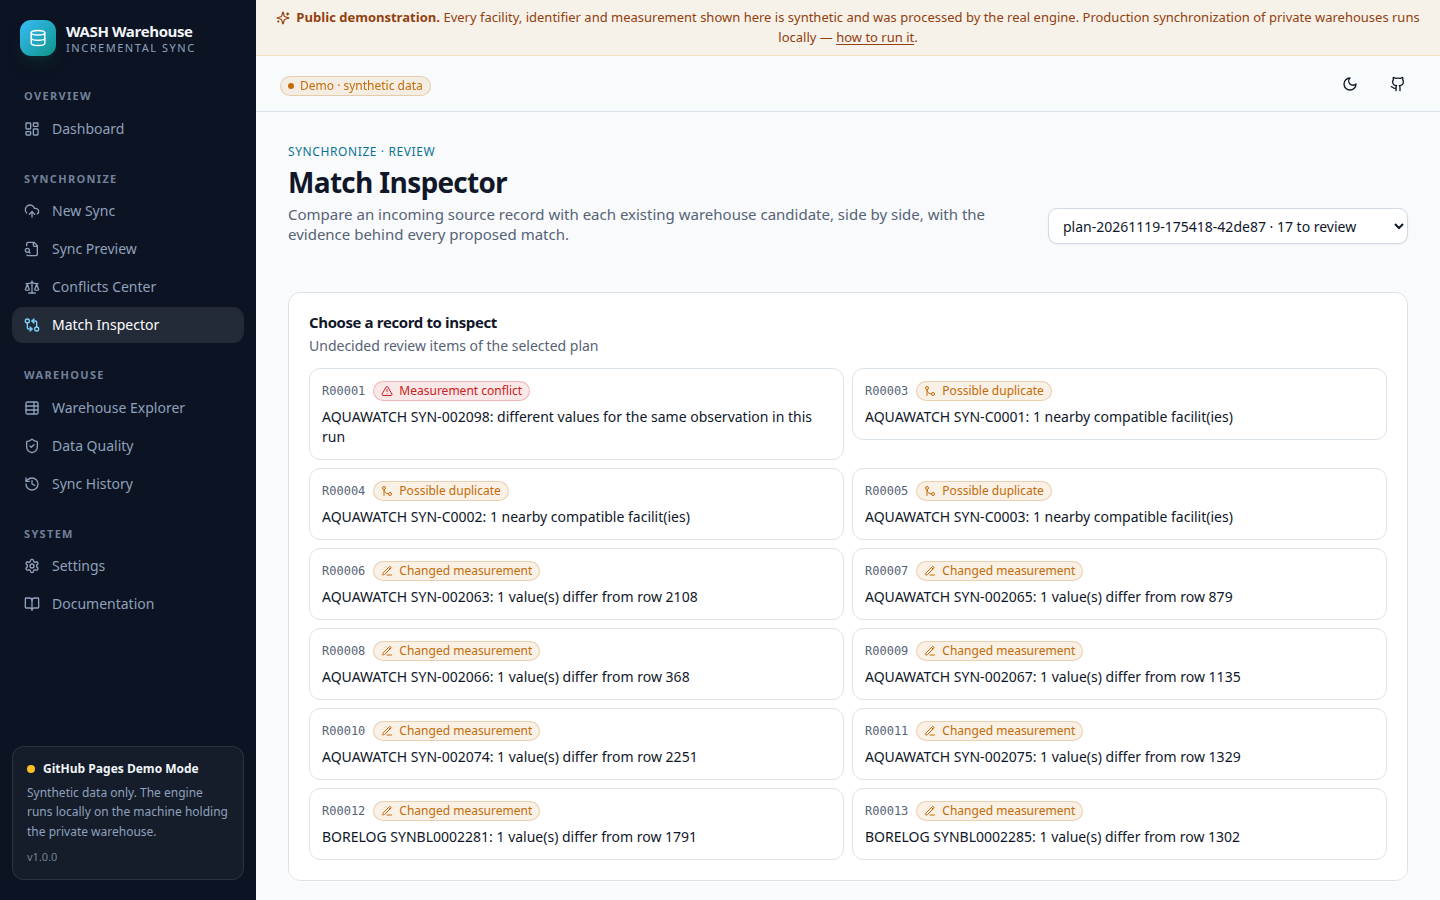
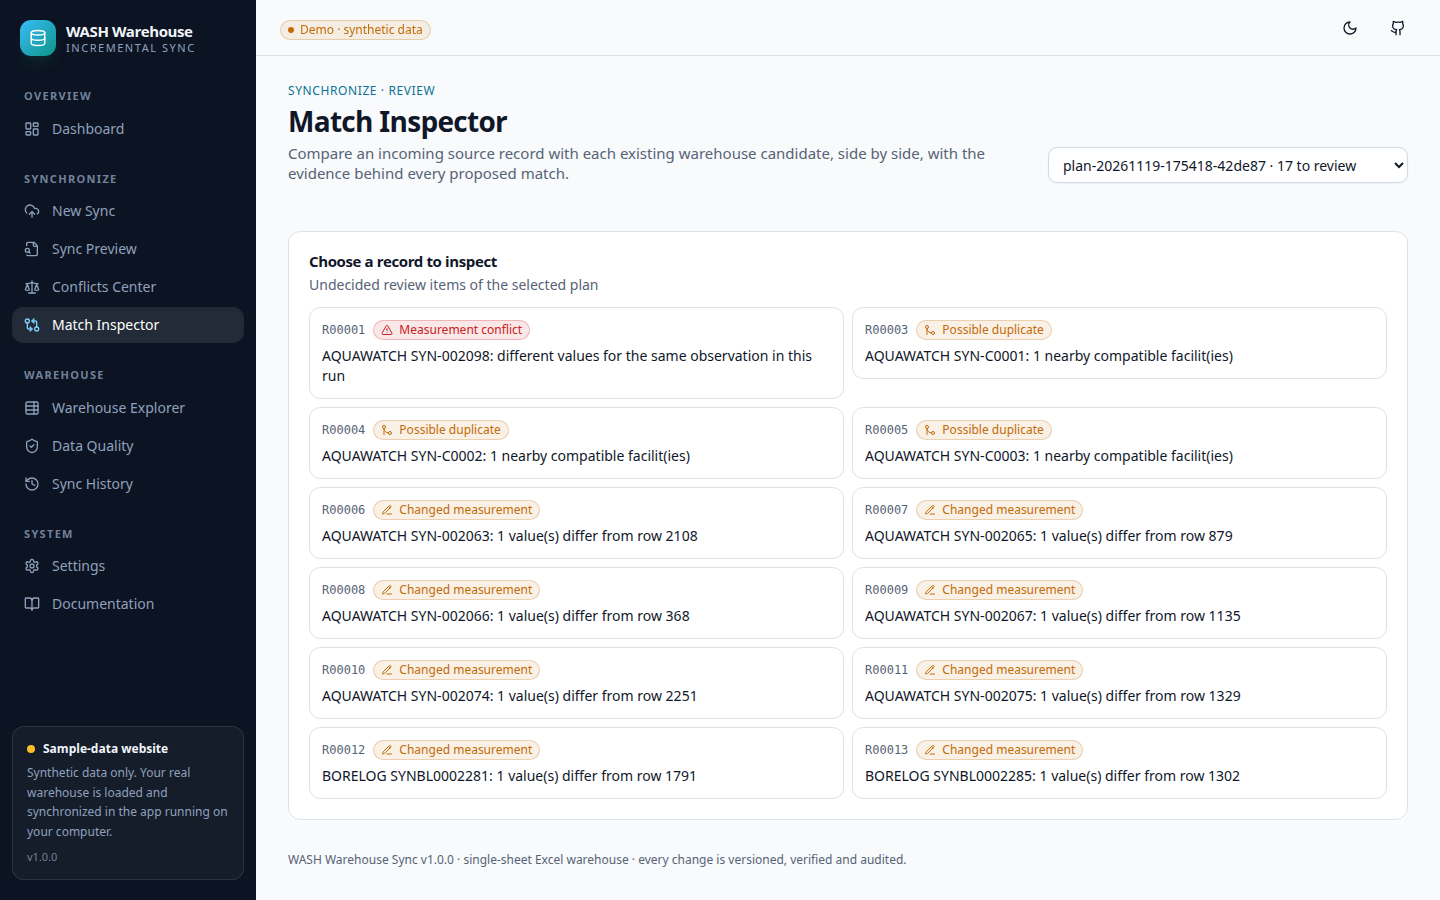
docs: loading the current warehouse, new messages and refreshed screenshots
Installation, state/audit and troubleshooting guides describe the two-step
flow (current warehouse, then files to sync), the LOADED version kind and
LOAD_WAREHOUSE event, and what each new message means. Screenshots are
regenerated from the demo build, plus one of New Sync in the local app with
a synthetic warehouse loaded.

diff --git a/docs/troubleshooting.md b/docs/troubleshooting.md
@@ -4,14 +4,18 @@
 |---|---|
 | `Plan was prepared for version N but the current version is M` | Another plan was applied or a rollback happened after this preview. Run the preview again. |
 | `Plan changed after approval; approve it again` | A decision was recorded after approval. Re-approve to lock the decisions. |
-| `Another operation is running` | Only one init/apply runs at a time. If a process crashed, `wash-sync recover` clears a stale lock. |
+| `Another operation is running` | Only one load/apply/rollback runs at a time. If a process crashed, `wash-sync recover` clears a stale lock. |
 | `Verification failed; nothing was published` | The new workbook failed an integrity or preservation check. The current version is unchanged; keep the audit and report the failed checks. |
 | `Result would need N rows; one worksheet holds at most 1,048,576` | The warehouse would exceed Excel's single-sheet limit. Nothing is written; the design requires one sheet. |
 | `Value … has N characters; Excel's limit is 32,767` | Typically an overlong lithology profile. It is never truncated; decide it in review. |
 | A file is not recognized | Check that the header row is present. Columns match by name — see `source_profiles.json`. |
 | Bangla admin names flagged as unmapped | Mappings are learned only from verified warehouse rows. Add a validated alias in Settings. |
 | `structural edits are refused` | The workbook contains formulas, merged cells, tables or conditional formats near the edit. The writer will not risk corrupting references; remove them from the data sheet. |
-| Explorer shows "No warehouse registered" | Run `wash-sync init --warehouse <file>` (or use the same `--state-dir` as the server). |
+| Explorer shows "No warehouse registered" | Load it in New Sync → step 1 (or `wash-sync load-warehouse <file>`), and use the same `--state-dir` for the CLI and the server. |
+| `… is not the WASH warehouse: it has no candidate_id … column` | The file chosen as the warehouse is something else — often a source export. Add exports in step 2 ("Files to sync"); step 1 takes the single-sheet warehouse workbook. |
+| `… is identical to v001, an earlier version` | Loading an old copy would silently undo later syncs. To go back on purpose, use Sync History → *Make current*. |
+| `Preparing warehouse v… for search (N%)` | The lookup index of the current version is being built (first start after an upgrade, or after the `index/` cache was deleted). The pages refresh by themselves; a 600,000-row warehouse takes a few minutes. |
+| `sync_compatibility` warning after loading a file | The workbook contains formulas, merged cells, tables or conditional formats, which block adding rows and columns. Paste values over formulas / remove them in Excel and load the file again. |
 | The web page says the interface is not built | `npm --prefix apps/web ci && npm --prefix apps/web run build:local`. |
 | The browser preview differs from the engine | The preview uses simplified rules on synthetic data; the engine dry run is authoritative. |
 | Index build after every new version | Expected: each version is indexed once (cached by SHA-256). Deleting `index/` is always safe. |

diff --git a/docs/installation.md b/docs/installation.md
@@ -22,16 +22,29 @@ npm --prefix apps/web run build:local
 Or run `./scripts/start-local.sh` (Windows: `scripts\start-local.ps1`), which does
 all of the above on first use and then starts the app.
 
-## Register the verified warehouse (once)
+## Load the current warehouse
+
+Start the app (`./scripts/start-local.sh` or `python -m wash_sync serve`), open **New Sync**
+and, in **step 1 · Current warehouse**, choose your latest warehouse workbook. It is checked
+(ZIP, XML, single worksheet, ordering, ranges), copied into the private state directory as the
+read-only `WASH_Warehouse_v000.xlsx` and prepared for search — about 5 minutes for 600,000
+rows. The original file is never modified. Every page then shows this warehouse.
+
+From the command line:
 
 ```bash
-wash-sync init --warehouse /path/to/WASH_GPANI_WPMS_AQUA_BORELOG_1986_2026_QA_CORRECTED.xlsx
+wash-sync load-warehouse /path/to/WASH_GPANI_WPMS_AQUA_BORELOG_1986_2026_QA_CORRECTED.xlsx
 ```
 
-The workbook is verified (ZIP, XML, single worksheet, ordering, ranges), copied into
-the private state directory as the read-only baseline `WASH_Warehouse_v000.xlsx`, and
-indexed. The original file is never modified. Choose the location with
-`--state-dir` or `WASH_SYNC_HOME` (default `~/.wash_sync`).
+Choose the location of the private state with `--state-dir` or `WASH_SYNC_HOME`
+(default `~/.wash_sync`).
+
+The latest version is remembered, so you load the warehouse only once. If it is later
+edited outside the app (for example QA corrections in Excel), load that file again with
+**Load a newer warehouse file** (or `wash-sync load-warehouse FILE -r "what changed"`): it
+becomes the next version and earlier versions stay available for rollback. Files that are not
+the warehouse (such as a source export), copies of an earlier version and the file that is
+already current are recognized and refused with an explanation.
 
 ## Daily use
 
@@ -39,8 +52,9 @@ indexed. The original file is never modified. Choose the location with
 python -m wash_sync serve       # http://127.0.0.1:8765
 ```
 
-1. **New Sync** — drop the latest export(s); check the detected source, column
-   mapping, personal-data notice and survey period; run the dry run.
+1. **New Sync** — step 1 shows the current warehouse; in step 2 drop the latest export(s),
+   check the detected source, column mapping, personal-data notice and survey period, and
+   run the dry run.
 2. **Sync Preview** — counts per classification and source, new columns, every record
    with its evidence and exact cell changes; download the audit.
 3. **Conflicts Center / Match Inspector** — decide each review item with a reason.
@@ -51,6 +65,7 @@ python -m wash_sync serve       # http://127.0.0.1:8765
 ## Command line equivalents
 
 ```bash
+wash-sync load-warehouse WASH_warehouse.xlsx -r "QA corrections"   # step 1 (first time: v000)
 wash-sync inspect exports/survey_2027_dry.xlsx
 wash-sync preview exports/survey_2027_dry.xlsx --period "2027 dry"
 wash-sync review list <plan-id>

diff --git a/docs/state-and-audit.md b/docs/state-and-audit.md
@@ -8,7 +8,7 @@ manifest.json               current version pointer, schema/engine versions
 warehouse_versions.json     immutable version records (see below)
 source_fingerprints.jsonl   latest status per observation key (hash, status, version, plan)
 facility_crosswalk.csv      VERIFIED_AUTO / APPROVED_MATCH / KEEP_SEPARATE links
-change_history.jsonl        append-only events: INIT, PREVIEW, DECISION, APPROVE, APPLY, ROLLBACK, …
+change_history.jsonl        append-only events: INIT, LOAD_WAREHOUSE, PREVIEW, DECISION, APPROVE, APPLY, ROLLBACK, …
 pending_conflicts.json      deferred / undecided review items carried between runs
 settings.json               validated configuration
 versions/                   WASH_Warehouse_v000.xlsx (baseline), v001, … (read-only)
@@ -20,6 +20,13 @@ jobs/  tmp/  uploads/       job journals, temporary output, uploaded exports
 ```
 
 ## Version record
+
+Every version has a kind: `BASELINE` (the first warehouse loaded), `SYNC` (written by an
+applied plan) or `LOADED` (a warehouse file loaded later, for example after QA corrections
+made in Excel; it records the file name and the reason given). A version becomes current only
+after its lookup index is complete, so every page shows either the previous version or the
+fully prepared new one; if an index is missing (it is a cache), the pages report that the
+warehouse is being prepared and refresh themselves while it is rebuilt in the background.
 
 Each version records: creation time, previous version, plan, source files with
 SHA-256, schema and engine versions, rows × columns, counts (added facilities,
